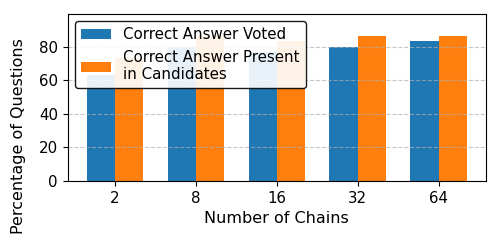
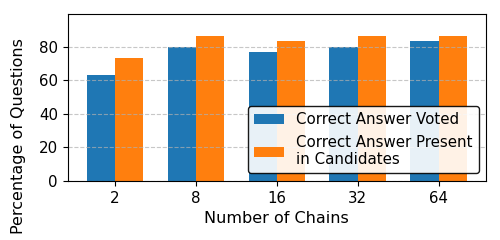
update legend position

Changed region(s): [[0.15, 0.0583, 0.63, 0.3792], [0.48, 0.4375, 0.96, 0.7292]]

diff --git a/prune/visualization/new_plots.py b/prune/visualization/new_plots.py
@@ -303,7 +303,7 @@ if not df_sc_melted.empty:
         # Wrap the second legend label to two lines
         handles, labels = ax.get_legend_handles_labels()
         labels = [label.replace("Correct Answer Present in Candidates", "Correct Answer Present\nin Candidates") for label in labels]
-        ax.legend(handles, labels, loc='upper left', fontsize=10.8, frameon=True, framealpha=0.9, edgecolor='black')
+        ax.legend(handles, labels, loc='lower right', fontsize=10.8, frameon=True, framealpha=0.9, edgecolor='black')
 
         ax.grid(axis='y', linestyle='--', alpha=0.7)
 
